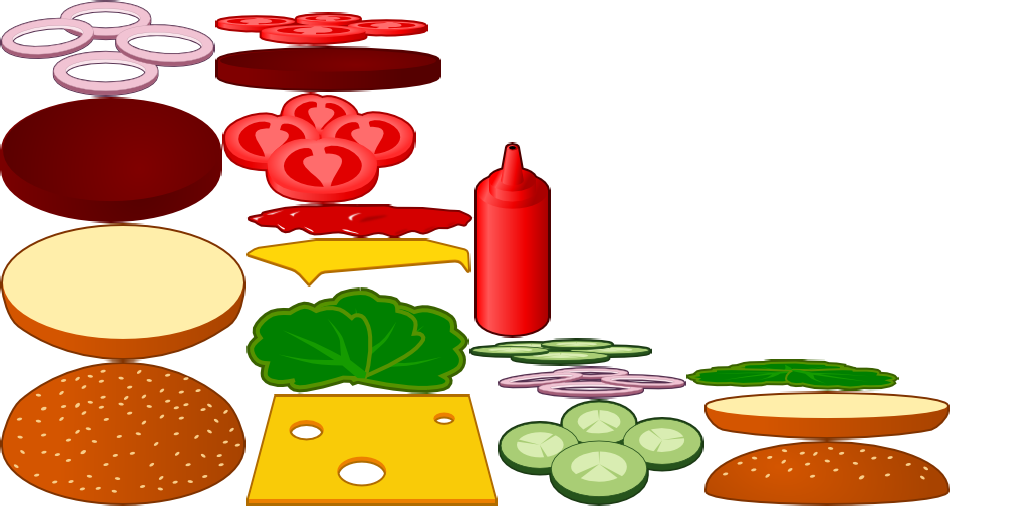
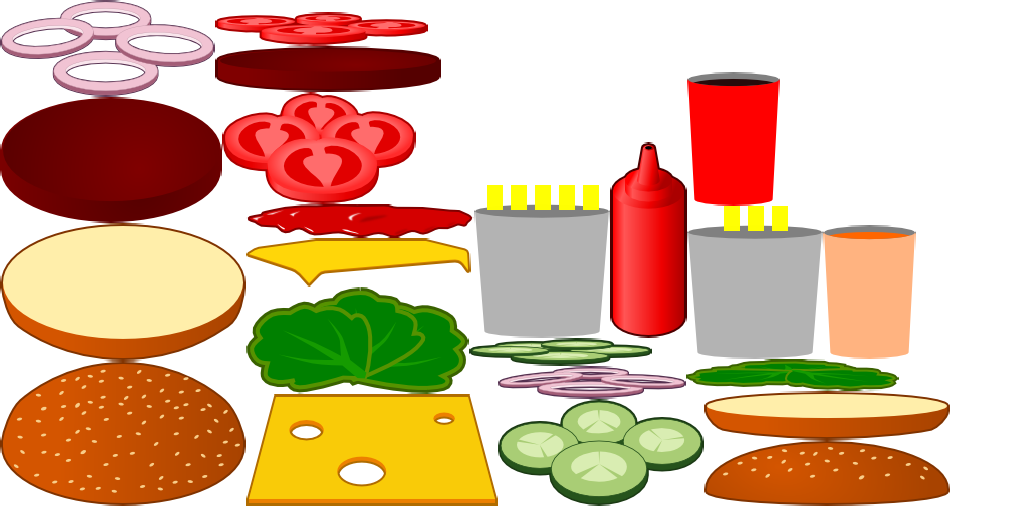
Introduce MealItem and make BurgerItem inherit from it

Changed region(s): [[0.4375, 0.125, 0.9062, 0.7188]]

diff --git a/burgerparty/src/com/agateau/burgerparty/model/BurgerItem.java b/burgerparty/src/com/agateau/burgerparty/model/BurgerItem.java
@@ -1,24 +1,15 @@
 package com.agateau.burgerparty.model;
 
-import java.io.IOException;
-
-import com.badlogic.gdx.Gdx;
-import com.badlogic.gdx.files.FileHandle;
-import com.badlogic.gdx.utils.OrderedMap;
 import com.badlogic.gdx.utils.XmlReader;
 
-public class BurgerItem {
-	private String mName;
+public class BurgerItem extends MealItem {
 	private int mHeight;
 	private int mOffset;
 
-	private static OrderedMap<String, BurgerItem> sMap = new OrderedMap<String, BurgerItem>();
-
-	private BurgerItem() {
-	}
-
-	public String getName() {
-		return mName;
+	protected BurgerItem(XmlReader.Element element) {
+		super(element);
+		mOffset = element.getIntAttribute("offset");
+		mHeight = element.getIntAttribute("height");
 	}
 
 	public int getHeight() {
@@ -30,30 +21,8 @@ public class BurgerItem {
 	}
 
 	public static BurgerItem get(String name) {
-		if (sMap.size == 0) {
-			initMap();
-		}
-		return sMap.get(name);
-	}
-
-	private static void initMap() {
-		FileHandle handle = Gdx.files.internal("burgeritems.xml");
-		XmlReader.Element root = null;
-		try {
-			XmlReader reader = new XmlReader();
-			root = reader.parse(handle);
-		} catch (IOException e) {
-			Gdx.app.error("BurgerItem.initMap", "Failed to load burger items definition from " + handle.path() + ". Exception: " + e.toString());
-			return;
-		}
-
-		for(int idx = 0; idx < root.getChildCount(); ++idx) {
-			XmlReader.Element element = root.getChild(idx);
-			BurgerItem item = new BurgerItem();
-			item.mName = element.getAttribute("name");
-			item.mOffset = element.getIntAttribute("offset");
-			item.mHeight = element.getIntAttribute("height");
-			sMap.put(item.mName, item);
-		}
+		MealItem item = MealItem.get(name);
+		assert(item.getType() == MealItem.Type.BURGER);
+		return (BurgerItem)item;
 	}
 }

diff --git a/burgerparty/src/com/agateau/burgerparty/model/MealItem.java b/burgerparty/src/com/agateau/burgerparty/model/MealItem.java
@@ -1,0 +1,69 @@
+package com.agateau.burgerparty.model;
+
+import java.io.IOException;
+
+import com.badlogic.gdx.Gdx;
+import com.badlogic.gdx.files.FileHandle;
+import com.badlogic.gdx.utils.OrderedMap;
+import com.badlogic.gdx.utils.XmlReader;
+
+public class MealItem {
+	public enum Type {
+		SIDE_ORDER,
+		DRINK,
+		BURGER
+	}
+	public static MealItem get(String name) {
+		if (sMap.size == 0) {
+			initMap();
+		}
+		return sMap.get(name);
+	}
+
+	public Type getType() {
+		return mType;
+	}
+
+	public String getName() {
+		return mName;
+	}
+
+	protected MealItem(XmlReader.Element element) {
+		mName = element.getAttribute("name");
+	}
+
+	private static void initMap() {
+		FileHandle handle = Gdx.files.internal("mealitems.xml");
+		XmlReader.Element root = null;
+		try {
+			XmlReader reader = new XmlReader();
+			root = reader.parse(handle);
+		} catch (IOException e) {
+			Gdx.app.error("MealItem.initMap", "Failed to load items definition from " + handle.path() + ". Exception: " + e.toString());
+			return;
+		}
+
+		for(int idx = 0; idx < root.getChildCount(); ++idx) {
+			XmlReader.Element element = root.getChild(idx);
+			String type = element.getAttribute("type");
+			MealItem item = null;
+			if (type.equals("burger")) {
+				item = new BurgerItem(element);
+				item.mType = Type.BURGER;
+			} else if (type.equals("drink")) {
+				item = new MealItem(element);
+				item.mType = Type.DRINK;
+			} else if (type.equals("side-order")) {
+				item = new MealItem(element);
+				item.mType = Type.SIDE_ORDER;
+			}
+			assert(item != null);
+			sMap.put(item.mName, item);
+		}
+	}
+
+	private Type mType;
+	private String mName;
+
+	private static OrderedMap<String, MealItem> sMap = new OrderedMap<String, MealItem>();
+}

diff --git a/burgerparty/src/com/agateau/burgerparty/view/InventoryView.java b/burgerparty/src/com/agateau/burgerparty/view/InventoryView.java
@@ -1,6 +1,6 @@
 package com.agateau.burgerparty.view;
 
-import com.agateau.burgerparty.model.BurgerItem;
+import com.agateau.burgerparty.model.MealItem;
 import com.agateau.burgerparty.model.Inventory;
 import com.agateau.burgerparty.utils.Signal1;
 
@@ -13,7 +13,7 @@ import com.badlogic.gdx.scenes.scene2d.utils.ClickListener;
 import com.badlogic.gdx.utils.Array;
 
 public class InventoryView extends Actor {
-	public Signal1<BurgerItem> itemSelected = new Signal1<BurgerItem>();
+	public Signal1<MealItem> itemSelected = new Signal1<MealItem>();
 	private TextureRegion mBgRegion;
 	private Inventory mInventory;
 	private TextureAtlas mAtlas;
@@ -32,7 +32,7 @@ public class InventoryView extends Actor {
 			@Override
 			public void clicked(InputEvent event, float x, float y) {
 				int index = getIndexAt(x, y);
-				BurgerItem item = mInventory.get(index);
+				MealItem item = mInventory.get(index);
 				if (item == null) {
 					return;
 				}
@@ -49,7 +49,7 @@ public class InventoryView extends Actor {
 		float cellHeight = mBgRegion.getRegionHeight();
 
 		int index = 0;
-		Array<BurgerItem> items = mInventory.getItems();
+		Array<MealItem> items = mInventory.getItems();
 		for (int row = 0; row < ROW_COUNT; ++row) {
 			for (int col = 0; col < COLUMN_COUNT; ++col, ++index) {
 				float posX = getX() + col * cellWidth;

diff --git a/burgerparty/src/com/agateau/burgerparty/model/World.java b/burgerparty/src/com/agateau/burgerparty/model/World.java
@@ -27,7 +27,7 @@ public class World {
 	public World(Level level) {
 		mLevel = level;
 		mCustomerCount = mLevel.definition.customerCount;
-		mInventory = new Inventory(level.definition.inventoryItems);
+		mInventory = new Inventory(level.definition.burgerItems);
 		mBurger = new Burger();
 		mTargetBurger = new Burger();
 	}
@@ -44,8 +44,9 @@ public class World {
 		return mTargetBurger;
 	}
 
-	public void addItem(BurgerItem item) {
-		mBurger.addItem(item);
+	public void addItem(MealItem item) {
+		assert(item.getType() == MealItem.Type.BURGER);
+		mBurger.addItem((BurgerItem)item);
 		Burger.Status status = mBurger.checkStatus(mTargetBurger);
 		if (status == Burger.Status.DONE) {
 			onBurgerFinished();
@@ -96,7 +97,7 @@ public class World {
 	}
 
 	private void generateTarget() {
-		Array<String> names = new Array<String>(mLevel.definition.inventoryItems);
+		Array<String> names = new Array<String>(mLevel.definition.burgerItems);
 		int count = MathUtils.random(mLevel.definition.minBurgerSize, mLevel.definition.maxBurgerSize);
 
 		mTargetBurger.clear();

diff --git a/burgerparty/src/com/agateau/burgerparty/model/Inventory.java b/burgerparty/src/com/agateau/burgerparty/model/Inventory.java
@@ -1,14 +1,14 @@
 package com.agateau.burgerparty.model;
 
-import com.agateau.burgerparty.model.BurgerItem;
+import com.agateau.burgerparty.model.MealItem;
 
 import com.badlogic.gdx.utils.Array;
 
 public class Inventory {
-	private Array<BurgerItem> mItems;
+	private Array<MealItem> mItems;
 
 	public Inventory(Array<String> itemNames) {
-		mItems = new Array<BurgerItem>();
+		mItems = new Array<MealItem>();
 		loadStoreItem("top");
 		loadStoreItem("bottom");
 		for (String name: itemNames) {
@@ -17,14 +17,14 @@ public class Inventory {
 	}
 
 	private void loadStoreItem(String name) {
-		mItems.add(BurgerItem.get(name));
+		mItems.add(MealItem.get(name));
 	}
 	
-	public Array<BurgerItem> getItems() {
+	public Array<MealItem> getItems() {
 		return mItems;
 	}
 	
-	public BurgerItem get(int index) {
+	public MealItem get(int index) {
 		if (index >=0 && index < mItems.size) {
 			return mItems.get(index);
 		} else {

diff --git a/burgerparty/src/com/agateau/burgerparty/model/Level.java b/burgerparty/src/com/agateau/burgerparty/model/Level.java
@@ -9,7 +9,8 @@ import com.badlogic.gdx.utils.XmlReader;
 
 public class Level {
 	public static class Definition {
-		public Array<String> inventoryItems = new Array<String>();
+		public Array<String> burgerItems = new Array<String>();
+		public Array<String> extraItems = new Array<String>();
 		public int minBurgerSize;
 		public int maxBurgerSize;
 		public int duration;
@@ -50,7 +51,13 @@ public class Level {
 		assert(items != null);
 		for(int idx = 0; idx < items.getChildCount(); ++idx) {
 			XmlReader.Element element = items.getChild(idx);
-			level.definition.inventoryItems.add(element.getAttribute("name"));
+			String name = element.getAttribute("name");
+			MealItem item = MealItem.get(name);
+			if (item.getType() == MealItem.Type.BURGER) {
+				level.definition.burgerItems.add(name);
+			} else {
+				level.definition.extraItems.add(name);
+			}
 		}
 
 		return level;

diff --git a/burgerparty/src/com/agateau/burgerparty/view/WorldView.java b/burgerparty/src/com/agateau/burgerparty/view/WorldView.java
@@ -3,7 +3,7 @@ package com.agateau.burgerparty.view;
 import java.util.HashSet;
 
 import com.agateau.burgerparty.BurgerPartyGame;
-import com.agateau.burgerparty.model.BurgerItem;
+import com.agateau.burgerparty.model.MealItem;
 import com.agateau.burgerparty.model.LevelResult;
 import com.agateau.burgerparty.model.World;
 
@@ -176,9 +176,9 @@ public class WorldView extends AnchorGroup {
 	private void setupInventoryView() {
 		mInventoryView = new InventoryView(mWorld.getInventory(), mAtlas);
 		addActor(mInventoryView);
-		mInventoryView.itemSelected.connect(mHandlers, new Signal1.Handler<BurgerItem>() {
+		mInventoryView.itemSelected.connect(mHandlers, new Signal1.Handler<MealItem>() {
 			@Override
-			public void handle(BurgerItem item) {
+			public void handle(MealItem item) {
 				mWorld.addItem(item);
 			}
 		});
